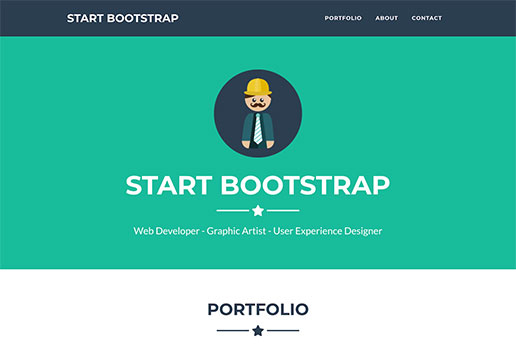
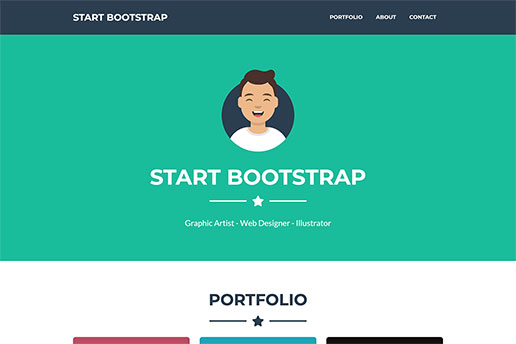
update freelancer

diff --git a/_themes/2014-05-01-freelancer.md b/_themes/2014-05-01-freelancer.md
@@ -3,7 +3,7 @@ title:            "Freelancer"
 slug:             freelancer
 src:              /themes/freelancer
 categories:       portfolio landing-page
-description:      "A one page Bootstrap portfolio theme for freelancers featuring a custom portfolio grid"
+description:      "A one page Bootstrap portfolio theme for freelancers featuring a flat design and a custom portfolio grid"
 bump:             "A one page freelancer theme"
 img-thumbnail:    /assets/img/screenshots/themes/freelancer.jpg
 img-full:         /assets/img/screenshots/themes/freelancer.png
@@ -12,27 +12,25 @@ layout:           overview-theme
 type:             theme
 rank: 4
 
-version:          5.0.4
+version:          5.1.0
 bootstrap:        4.3.1
-updated:          2019-03-26
+updated:          2019-05-23
 
 meta-title:       "Freelancer - One Page Theme"
 meta-description: "A free one page Bootstrap portfolio theme for freelancers. All Start Bootstrap templates are free to download and open source."
 
 features:
-  - Flat icons by flaticons.com
-  - SCSS/SASS files and compiled CSS included
-  - Fixed top navigation that collapses on scroll
-  - Scrollspy on navigation items
-  - Perfectly responsive portfolio grid with hover effects
+  - <strong>Create your own profile avatar at <a href="https://getavataaars.com/" target="_blank">https://getavataaars.com/</a></strong>
+  - Fully responsive portfolio theme ready to customize and publish
+  - Fixed navigation bar that morphs when user scrolls
+  - SASS files included for easy customization
+  - Portfolio grid with simple hover effects
   - Responsive, full screen modal windows for featuring project details
-  - Custom horizontal rules using Font Awesome icons
-  - Custom outline button style
-  - Mobile friendly contact form with floating form labels
+  - Custom dividers using Font Awesome icons
+  - Mobile friendly contact form with floating form labels and form validation
   - Easy to edit PHP file to make the contact form send messages
-  - Includes jqBootstrapValidation plugin for contact form validation
 
-long-description: "Freelancer is a one page Bootstrap portfolio theme for freelancers."
+long-description: "Freelancer is a flat design, one page Bootstrap portfolio theme perfect for freelancer portfolios, or any other one page website."
 
 redirect_from:
   - /freelancer/
